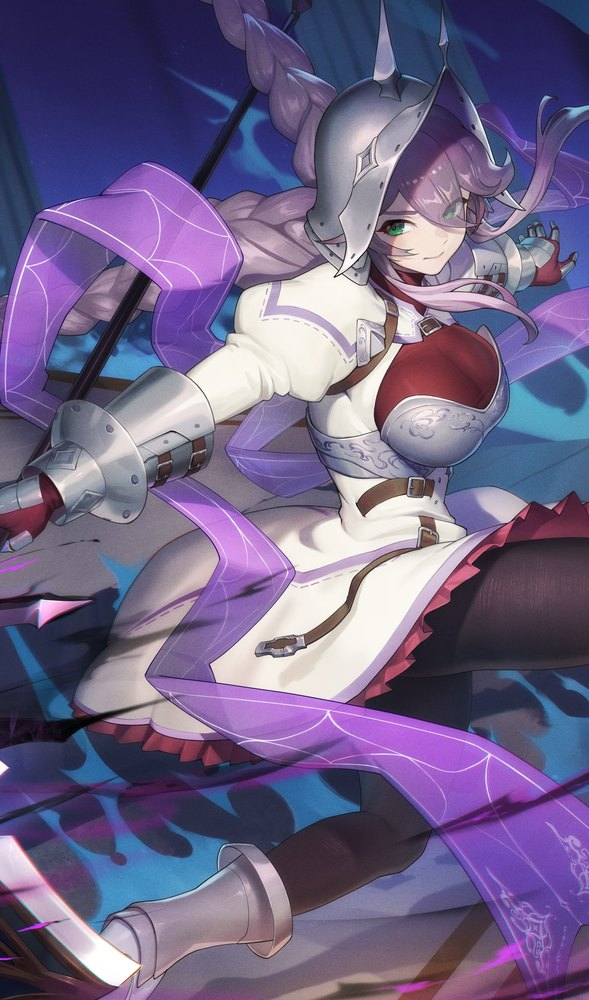
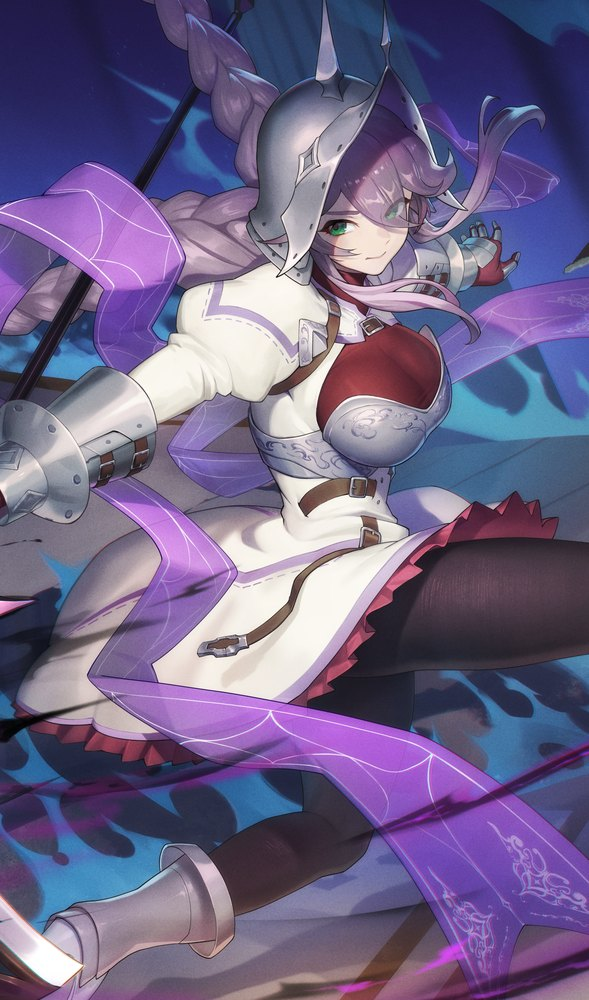
Hero strip: recenter couple and knight on mobile grid
Claude-Session: https://claude.ai/code/session_0182ETGqkY6VZC2ACV9rE9Mb

diff --git a/index.html b/index.html
@@ -126,7 +126,7 @@ html[lang="th"] .h2{padding-top:.08em}
 .hero-strip > :last-child{clip-path:polygon(var(--sk) 0,100% 0,100% 100%,0 100%)}
 .hero-strip > :hover{flex-grow:1.6}
 .hero-strip > :first-child:hover{flex-grow:2.2}
-@media (max-width:760px){.hero-strip{display:grid;grid-template-columns:1fr 1fr;grid-auto-rows:clamp(150px,44vw,240px);gap:6px;height:auto;border-radius:18px;margin-top:28px}.hero-strip > *,.hero-strip > :first-child,.hero-strip > :last-child,.hero-strip > :nth-last-child(2){margin:0;clip-path:none;height:100% !important;flex:none}}
+@media (max-width:760px){.hero-strip{display:grid;grid-template-columns:1fr 1fr;grid-auto-rows:clamp(150px,44vw,240px);gap:6px;height:auto;border-radius:18px;margin-top:28px}.hero-strip > *,.hero-strip > :first-child,.hero-strip > :last-child,.hero-strip > :nth-last-child(2){margin:0;clip-path:none;height:100% !important;flex:none}.hero-strip > :nth-child(1){object-position:34% 30% !important}.hero-strip > :nth-child(3){object-position:center 12% !important}}
 .strip-img{display:block;width:100%;object-fit:cover}
 .btn{display:inline-flex;align-items:center;justify-content:center;gap:8px;min-height:52px;padding:0 26px;border-radius:999px;text-decoration:none;font-size:16px;font-weight:600;border:1px solid transparent;cursor:pointer}
 .btn.primary{background:var(--accent);color:var(--on-accent)}
@@ -646,7 +646,7 @@ footer .wrap{display:flex;flex-wrap:wrap;justify-content:space-between;gap:10px;
       </div>
       <a class="btn ghost" href="#services" data-t="hero.btn"></a>
     </div>
-    <div class="hero-strip"><img class="strip-img" src="fab-game-4.jpg" alt="3D game characters" style="object-position:center 30%"><img class="strip-img" src="hero-art-cathood.jpg" alt="Character illustration" style="object-position:center 20%"><img class="strip-img" src="hero-art-knight.jpg" alt="Character illustration" style="object-position:center 12%"><img class="strip-img" src="merch3d-1.jpg" alt="3D printed merch" style="object-position:24% center"></div>
+    <div class="hero-strip"><img class="strip-img" src="fab-game-4.jpg" alt="3D game characters" style="object-position:center 30%"><img class="strip-img" src="hero-art-cathood.jpg" alt="Character illustration" style="object-position:center 20%"><img class="strip-img" src="hero-art-knight.jpg?v=2" alt="Character illustration" style="object-position:center 12%"><img class="strip-img" src="merch3d-1.jpg" alt="3D printed merch" style="object-position:24% center"></div>
   </section>
 
   <div class="wrap"><div class="tiles" id="tiles"></div></div>
